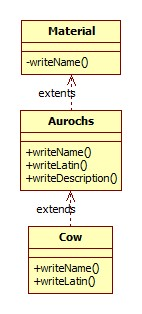
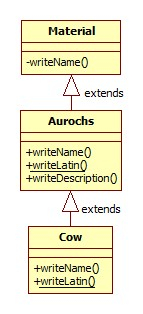
Changes to the diagram 1 and added commentary to task 4 in the report for clarification.

diff --git a/Assignment2/report/Group10_Assignment2_OOSC_2020.tex b/Assignment2/report/Group10_Assignment2_OOSC_2020.tex
@@ -92,7 +92,7 @@
 	\setcounter{chapter}{2} % Aktuelles Assigment
 	\section{Assignment:}
 	
-    % TODO: Image of the UML is missing
+    \includegraphics[keepaspectratio,width=0.25\textwidth,angle=0]{images/ClassDiagram1.jpg}
     
 	\begin{table}[h]
 		\centering
@@ -158,8 +158,11 @@
     \end{flushleft}
 	
 	\section{Assignment:}
-		\input{q5/ex5.tex}
+		\includegraphics[keepaspectratio,width=\textwidth,angle=0]{images/ClassDiagram4.jpg}\\
+		This is a view inheritance example, because we have a student that has two categories of specialization of students - we can either consider them by language they speak or by the course they are taking.
+		Language and Course are then the classification criteria. We decided to add the additional abstraction level to increase the readability of the situation.
 	\section{Assignment:}
+		\input{q5/ex5.tex}
 	\section{Assignment:}
 	\section{}
 	\input{ex7.tex}
